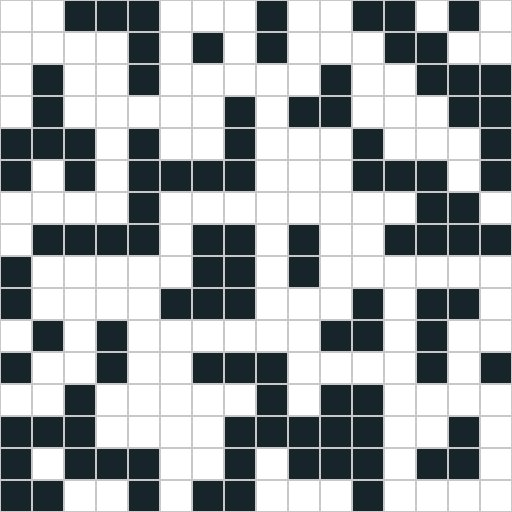
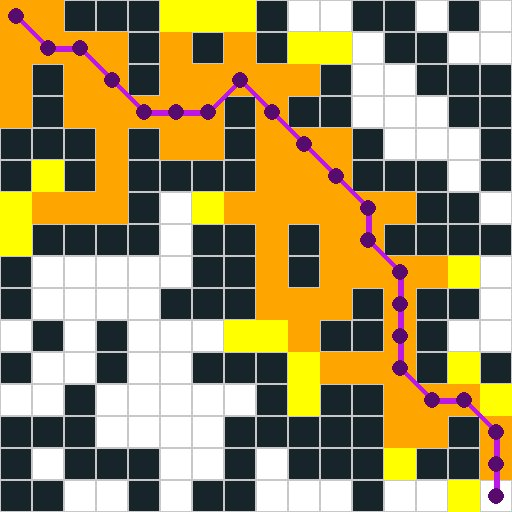
add param for turn penalty function konstanta

diff --git a/Algoritma/Astar_Optimize.py b/Algoritma/Astar_Optimize.py
@@ -30,7 +30,7 @@ def heuristic(start, goal, hchoice):
     if hchoice == 2:
         return math.sqrt((goal[0] - start[0]) ** 2 + (goal[1] - start[1]) ** 2)
 
-def method(map, start, goal, hchoice=2, TPF=False, BRC=False, GLF=False, PPO=False, show=False, speed=30):
+def method(map, start, goal, hchoice=2, TPF=False, BRC=False, GLF=False, PPO=False, show=False, speed=30, k=0.5):
 
     if show:
         surface, cell_size = Z_GetMap.Init_Visual(map)
@@ -119,7 +119,7 @@ def method(map, start, goal, hchoice=2, TPF=False, BRC=False, GLF=False, PPO=Fal
                 continue
         
             # Single-line conditional calculations
-            v1 = TP(came_from.get(current, current), current, neighbour, 0.6) if TPF else 0
+            v1 = TP(came_from.get(current, current), current, neighbour, k) if TPF else 0
             v2 = BR(neighbour, goal, map) or 1 if BRC else 1
             v3 = GL(start, goal, neighbour) if GLF else 0
 
@@ -159,7 +159,7 @@ def method(map, start, goal, hchoice=2, TPF=False, BRC=False, GLF=False, PPO=Fal
         endtime = time.time()
     return (0, round(endtime - starttime, 6)), 0, 0
 
-def methodBds(map, start, goal, hchoice=2, TPF=False, BRC=False, GLF=False, PPO=False, show=False, speed=30):
+def methodBds(map, start, goal, hchoice=2, TPF=False, BRC=False, GLF=False, PPO=False, show=False, speed=30, k=0.5):
 
     if show:
         surface, cell_size = Z_GetMap.Init_Visual(map)
@@ -217,7 +217,7 @@ def methodBds(map, start, goal, hchoice=2, TPF=False, BRC=False, GLF=False, PPO=
                 if neighbour in close_f:
                     continue
 
-                v1 = TP(came_from_f.get(current_f, current_f), current_f, neighbour, 0.6) if TPF else 0
+                v1 = TP(came_from_f.get(current_f, current_f), current_f, neighbour, k) if TPF else 0
                 v2 = BR(neighbour, goal, map) or 1 if BRC else 1
                 v3 = GL(start, goal, neighbour) if GLF else 0
 
@@ -257,7 +257,7 @@ def methodBds(map, start, goal, hchoice=2, TPF=False, BRC=False, GLF=False, PPO=
                 else:
                     cost = math.sqrt(2) if dX != 0 and dY != 0 else 1
 
-                v1 = TP(came_from_b.get(current_b, current_b), current_b, neighbour, 0.6) if TPF else 0
+                v1 = TP(came_from_b.get(current_b, current_b), current_b, neighbour, k) if TPF else 0
                 v2 = BR(neighbour, start, map) or 1 if BRC else 1
                 v3 = GL(goal, start, neighbour) if GLF else 0
 

diff --git a/Algoritma/JPS_Optimize.py b/Algoritma/JPS_Optimize.py
@@ -204,7 +204,7 @@ def identifySuccessors(currentX, currentY, came_from, matrix, goal):
     return successors
 
 
-def method(matrix, start, goal, hchoice, TPF=False, BRC=False, GLF=False, PPO=False, show=False, speed=60):
+def method(matrix, start, goal, hchoice, TPF=False, BRC=False, GLF=False, PPO=False, show=False, speed=60, k=0.5):
 
     if show:
         surface, cell_size = Z_GetMap.Init_Visual(matrix)
@@ -273,7 +273,7 @@ def method(matrix, start, goal, hchoice, TPF=False, BRC=False, GLF=False, PPO=Fa
             ):  # and tentative_gn >= gn.get(jumpPoint,0):
                 continue
 
-            v1 = TP(came_from.get(jumpPoint, jumpPoint), current, jumpPoint, 0.6) if TPF else 0
+            v1 = TP(came_from.get(jumpPoint, jumpPoint), current, jumpPoint, k) if TPF else 0
             v2 = BR(jumpPoint, goal, matrix) or 1 if BRC else 1
             v3 = GL(start, goal, jumpPoint) if GLF else 0
 
@@ -320,7 +320,7 @@ def method(matrix, start, goal, hchoice, TPF=False, BRC=False, GLF=False, PPO=Fa
     endtime = time.time()
     return (0, round(endtime - starttime, 6)), 0, 0
 
-def methodBds(matrix, start, goal, hchoice, TPF=False, BRC=False, GLF=False, PPO=False, show=False, speed=60):
+def methodBds(matrix, start, goal, hchoice, TPF=False, BRC=False, GLF=False, PPO=False, show=False, speed=60, k=0.5):
     
     if show:
         surface, cell_size = Z_GetMap.Init_Visual(matrix)
@@ -367,7 +367,7 @@ def methodBds(matrix, start, goal, hchoice, TPF=False, BRC=False, GLF=False, PPO
                     continue
 
                 # Single-line conditional calculations
-                v1 = TP(came_from_f.get(current_f, current_f), current_f, succ, 0.6) if TPF else 0
+                v1 = TP(came_from_f.get(current_f, current_f), current_f, succ, k) if TPF else 0
                 v2 = BR(succ, goal, matrix) or 1 if BRC else 1
                 v3 = GL(start, goal, succ) if GLF else 0
 
@@ -407,7 +407,7 @@ def methodBds(matrix, start, goal, hchoice, TPF=False, BRC=False, GLF=False, PPO
                     continue
 
                 # Single-line conditional calculations
-                v1 = TP(came_from_b.get(current_b, current_b), current_b, succ, 0.6) if TPF else 0
+                v1 = TP(came_from_b.get(current_b, current_b), current_b, succ, k) if TPF else 0
                 v2 = BR(succ, start, matrix) or 1 if BRC else 1
                 v3 = GL(goal, start, succ) if GLF else 0
 

diff --git a/Z_Pengujian_Algoritma.py b/Z_Pengujian_Algoritma.py
@@ -138,9 +138,9 @@ if __name__ == "__main__":
 
     # sys.exit()
 
-    # for i in range(5):
+    for i in range(10):
 
-        mapChoice = 1
+        mapChoice = 5
 
         if mapChoice < 1:
             nameMap = "Map"
@@ -169,9 +169,9 @@ if __name__ == "__main__":
                 BDS=False,
                 BRC=False,
                 PPO=False,
-                TPF=False,
+                TPF=True,
                 GLF=False,
-                show=True,
+                show=False,
                 speed=200,
             )
 
@@ -180,13 +180,14 @@ if __name__ == "__main__":
             print(f"  Waktu Pencarian : {times}")
             print(f"  Jumlah Open Set : {len(openlist)}")
             print(f"  Jumlah Close Set : {len(closelist)}")
+            print(f"  Jumlah Open + Close di i {i} : {len(openlist) + len(closelist)}")
             print(f"  Jumlah Belokan : {belokan}")
 
         except Exception as e:
             print(f"[!] Error di iterasi : {e}")
 
         # Munculkan dan simpan map
-        Z_GetMap.show(map, window_size=512, name=nameMap, path=path, openlist=openlist, closelist=closelist)
+        # Z_GetMap.show(map, window_size=512, name=nameMap, path=path, openlist=openlist, closelist=closelist)
         # Z_GetMap.show(map, window_size=512, name=nameMap)
 
 
